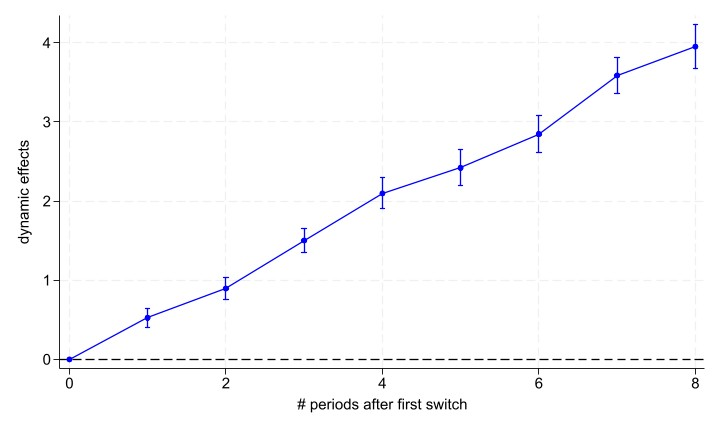
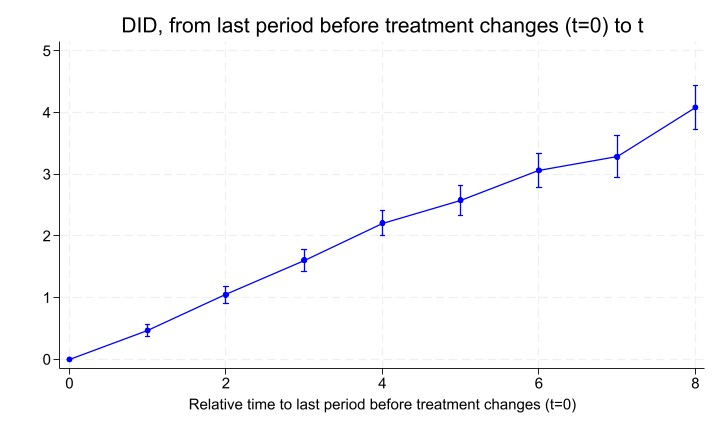
Vignette 1 update

diff --git a/vignettes/vignette_1.md b/vignettes/vignette_1.md
@@ -407,11 +407,49 @@ print(table[order(table[,ncol(table)]),1:(ncol(table)-1)])
 
 ### Part V: Graph output
 
+The output of the loop above is a matrix, which can be turned into an event-study plot very easily. In R, we use the ggplot2 library, while in Stata we use the built-in gr commands.
+<table>
+  <tr>
+    <th>Stata</th>
+    <th>R</th>
+  </tr>
+  <tr>
+    <td>
+    <pre><code>
+mat res = (0,0,0,0,0,0) \ res
+svmat res
+gen rel_time = _n-1 if !missing(res1)
+tw rcap res3 res4 rel_time, lc(blue) || ///
+connected res1 rel_time, mc(blue) lc(blue) || ///
+, xtitle("Relative time to last period before treatment changes (t=0)") ///
+title("DID, from last period before treatment changes (t=0) to t") ///
+yline(0) ytitle(" ") leg(off) 
+    </pre></code>
+    </td>
+    <td>
+    <pre><code>
+library(ggplot2)
+table <- table[order(table[,ncol(table)]), ]
+table <- rbind(rep(0, ncol(table)), table)
+colnames(table)[ncol(table)] <- "Time"
+table <- as.data.frame(table)
+out_plot <- ggplot(table, aes(x = .data$Time, y = .data$Estimate, group = 1)) + 
+geom_line(colour = "blue") +
+geom_errorbar(data = ~dplyr::filter(.x, table$Estimate != 0), aes(ymin = .data[["LB CI"]], ymax = .data[["UB CI"]]), 
+position=position_dodge(0.05), width = 0.2, colour = "red") + 
+geom_point(colour = "blue") + 
+ggtitle("DID, from last period before treatment changes (t=0) to t") + 
+xlab("Relative time to last period before treatment changes (t=0)") +
+theme(plot.title = element_text(hjust = 0.5))
+print(out_plot)
+    </pre></code>
+    </td>
+  </tr>
+</table>
 
+The resulting graph should look like this:
+<p>
+  <img src="https://github.com/DiegoCiccia/did_multiplegt_dyn/blob/main/vignettes/assets/vignette_1_Stata_fig2.jpg" alt>
+</p>
 
-
-
-
-
-
-
+---
